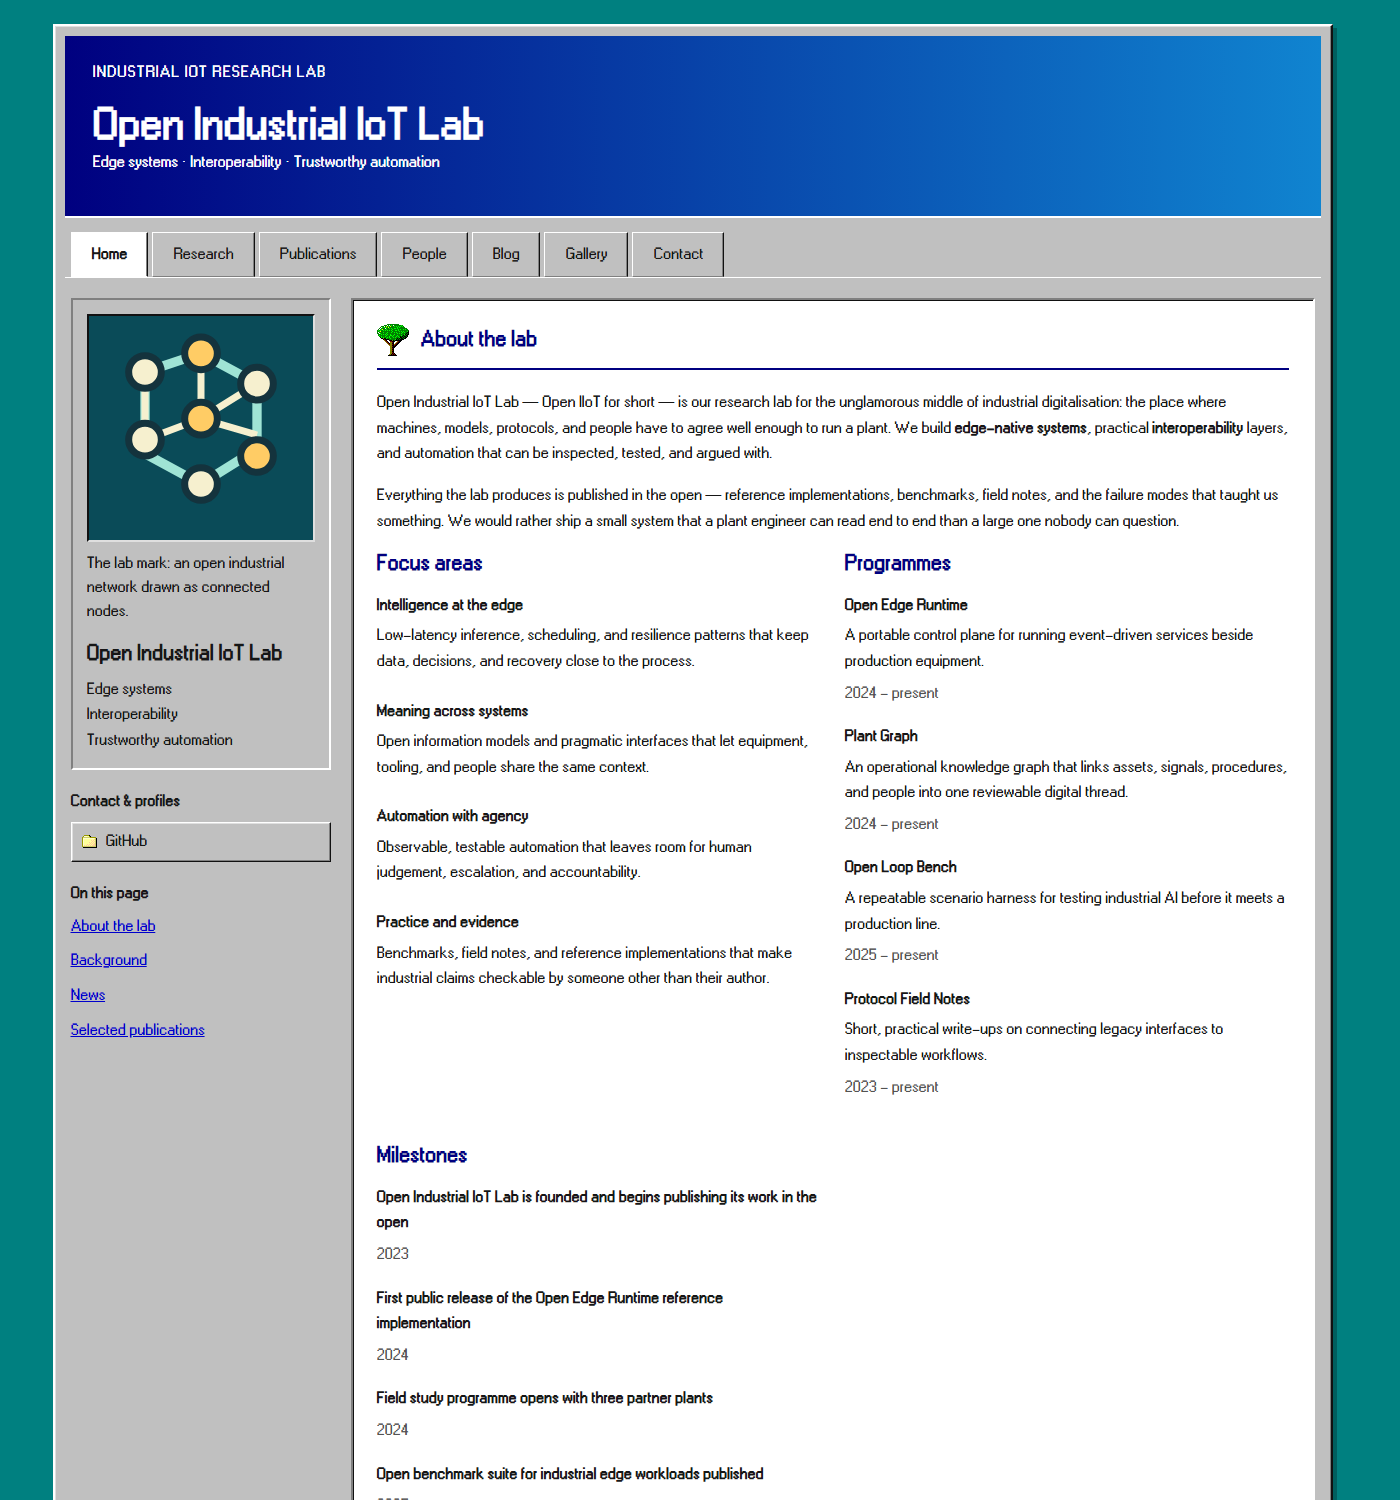
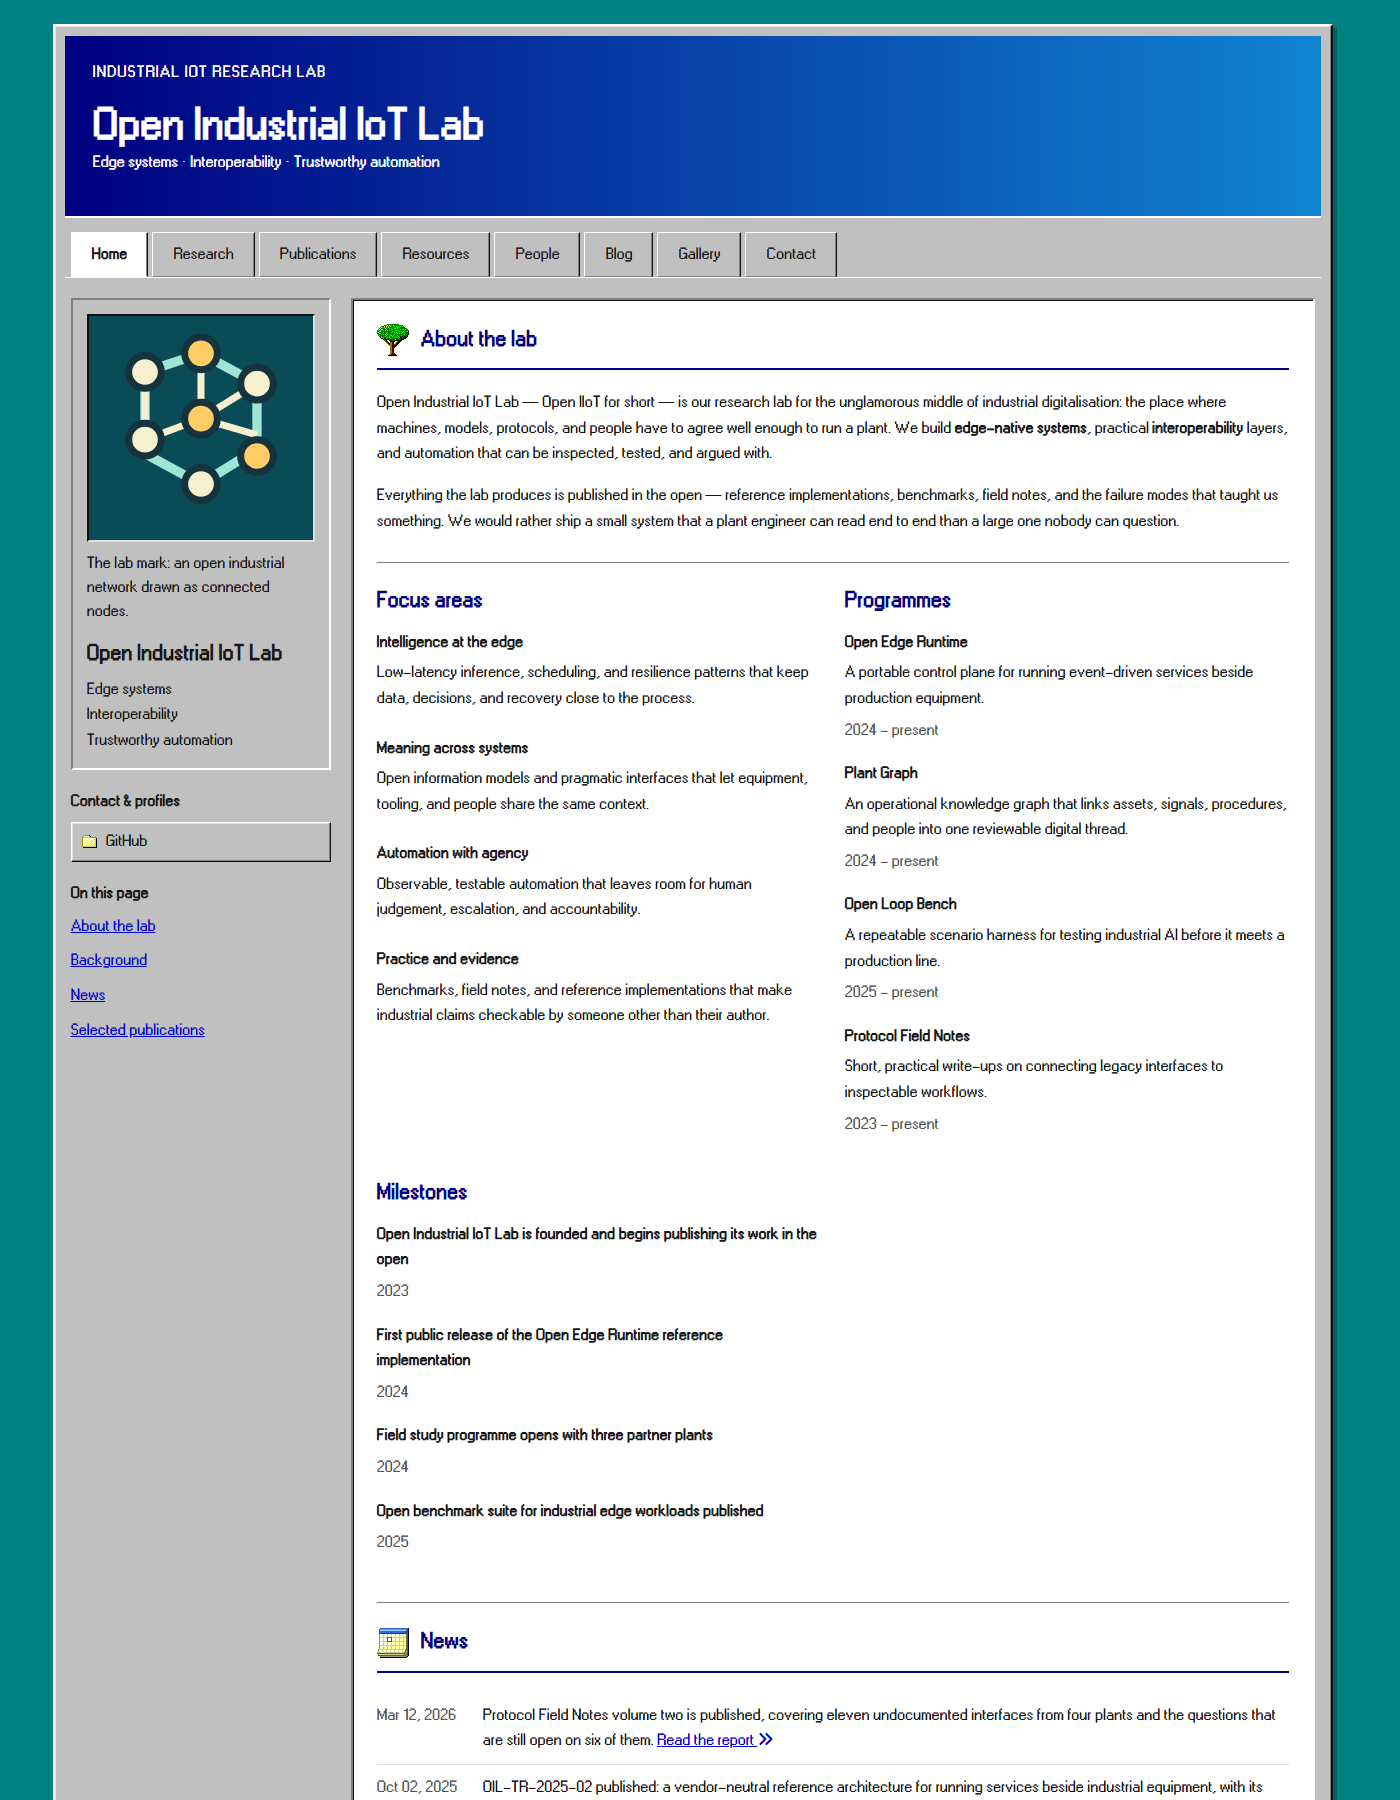
Link each research programme to its software, and refresh the README screenshot

diff --git a/_includes/widgets/programme_reports.html b/_includes/widgets/programme_reports.html
@@ -1,7 +1,8 @@
 {% comment %}
-Lists the reports that came out of one research programme, as deep links into the
-publications page. The programme card includes this widget; it matches publications by the
-`programme:` field in their front matter, which must equal the card's `title:`.
+Lists the reports and the open-source software that came out of one research programme, as deep
+links into the publications and resources pages. The programme card includes this widget; it
+matches publications and resources by their `programme:` field, which must equal the card's
+`title:`.
 {% endcomment %}
 {% assign programme_reports = site.publications | where: "programme", page.title | sort: "date" | reverse %}
 {% if programme_reports.size > 0 %}
@@ -9,6 +10,15 @@ publications page. The programme card includes this widget; it matches publicati
 <ul>
     {% for report in programme_reports %}
     <li><a href="{{ '/publications/' | relative_url }}#{{ report.title | slugify }}">{{ report.pub_pre }}{{ report.title | truncate: 78 }}</a></li>
+    {% endfor %}
+</ul>
+{% endif %}
+{% assign programme_software = site.resources | where: "programme", page.title | sort: "date" | reverse %}
+{% if programme_software.size > 0 %}
+<p><strong>Software</strong></p>
+<ul>
+    {% for tool in programme_software %}
+    <li><a href="{{ '/resources/' | relative_url }}#{{ tool.title | slugify }}">{{ tool.package | default: tool.title }}</a>{% if tool.summary %} — {{ tool.summary | truncate: 70 }}{% endif %}</li>
     {% endfor %}
 </ul>
 {% endif %}
